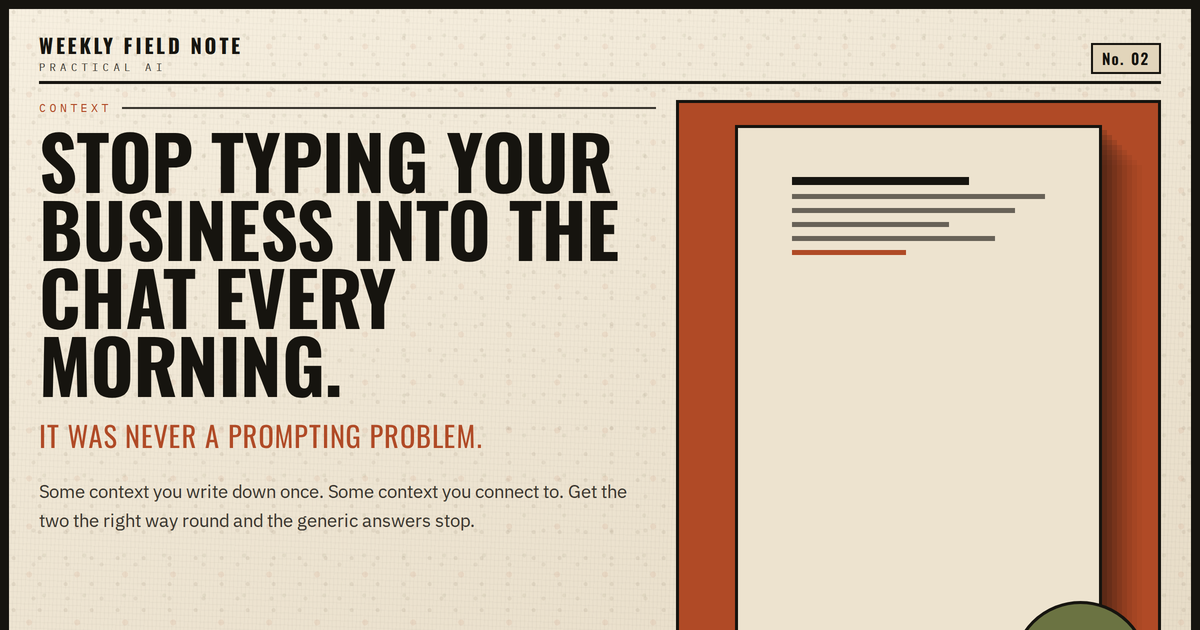
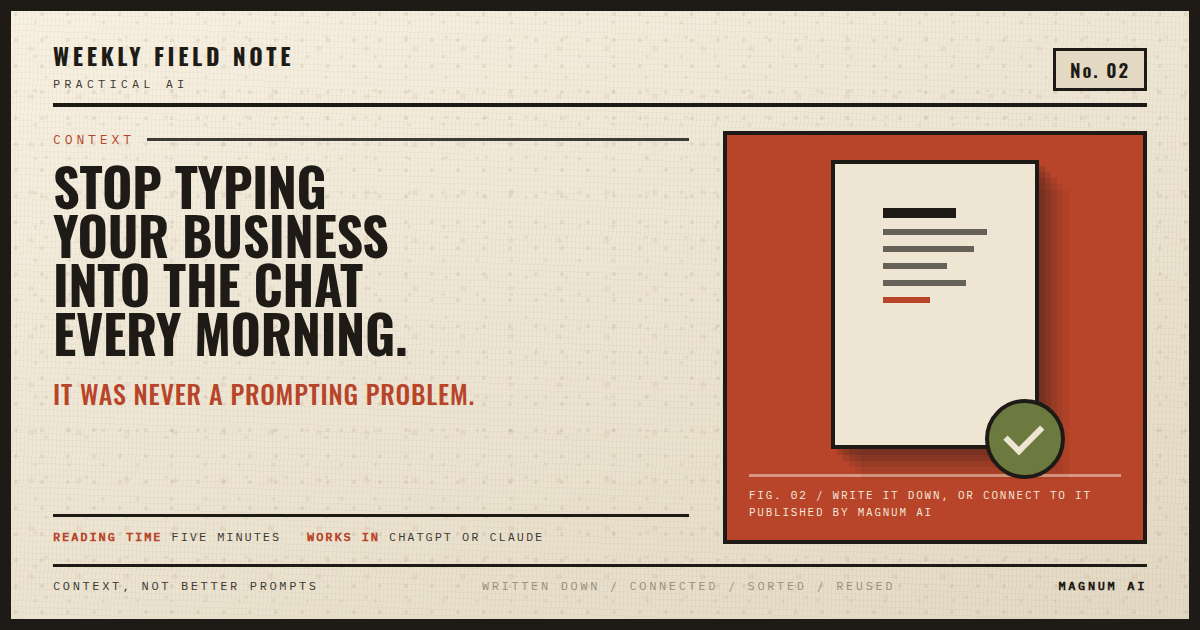
Rebuild the Field Note No. 02 social thumbnail
The published card was rendered through a viewport that scaled the page, so it
shipped zoomed and cut off at the bottom: no slug line, no footer strip, and
the tick clipped. It is the og:image for the issue, so every shared link
previewed with a chopped card.

Re-rendered at a true 1200x630 from a committed source, in the house palette
and matching the anatomy of No. 01. Keeps the thumbnail source alongside the
issue so the card can be regenerated after an edit.

Claude-Session: https://claude.ai/code/session_013LnzfXSUAcsEjMFYhF9Rse

diff --git a/newsletter/field-note-02-thumbnail.html b/newsletter/field-note-02-thumbnail.html
@@ -1,0 +1,134 @@
+<!DOCTYPE html>
+<html lang="en-AU">
+<head>
+<meta charset="utf-8">
+<title>Field Note No. 02 — social thumbnail</title>
+<!--
+  THUMBNAIL SOURCE — Weekly Field Note No. 02, Context
+  ===================================================
+  This is the 1200x630 social card that shows up when a Field Note link is
+  shared (email, LinkedIn, WhatsApp, Slack) and as the cover image on the
+  members area home page.
+
+  To make one for a new issue:
+    1. Copy this file, change the four bits marked EDIT below.
+    2. Render it to a PNG at exactly 1200x630 (any headless browser will do):
+         chrome --headless --screenshot=out.png --window-size=1200,630 file.html
+    3. Save the PNG as assets/thumbnails/field-note-NN-slug.png
+    4. Point the issue's og:image meta tag at it.
+-->
+<link rel="preconnect" href="https://fonts.googleapis.com">
+<link rel="preconnect" href="https://fonts.gstatic.com" crossorigin>
+<link href="https://fonts.googleapis.com/css2?family=Oswald:wght@400;500;600;700&family=IBM+Plex+Mono:wght@400;500;600&family=IBM+Plex+Sans:wght@400;500;600&display=swap" rel="stylesheet">
+<style>
+:root{
+  --paper:#EEE6D3;
+  --paper-deep:#E4DAC4;
+  --ink:#1E1B17;
+  --rust:#B8452A;
+  --tan:#C9A87C;
+  --olive:#6C7A3F;
+  --charcoal:#3A3630;
+  --taupe:#9C8D77;
+}
+*{box-sizing:border-box;margin:0;padding:0}
+body{width:1200px;height:630px;overflow:hidden;background:#4A453D;font-family:'IBM Plex Sans',Arial,sans-serif;color:var(--ink)}
+
+.card{
+  width:1200px;height:630px;
+  background-color:var(--paper);
+  background-image:
+    radial-gradient(circle at 18% 12%, rgba(156,141,119,.16) 0 2px, transparent 2px),
+    radial-gradient(circle at 72% 34%, rgba(156,141,119,.13) 0 2px, transparent 2px),
+    radial-gradient(circle at 42% 78%, rgba(184,69,42,.07) 0 3px, transparent 3px),
+    radial-gradient(circle at 88% 66%, rgba(108,122,63,.08) 0 2px, transparent 2px),
+    repeating-linear-gradient(92deg, rgba(30,27,23,.028) 0 1px, transparent 1px 4px),
+    repeating-linear-gradient(2deg, rgba(30,27,23,.022) 0 1px, transparent 1px 6px),
+    linear-gradient(160deg, rgba(255,250,238,.55), rgba(198,181,152,.28));
+  background-size:26px 26px,34px 34px,48px 48px,40px 40px,auto,auto,auto;
+  border:11px solid var(--ink);
+  padding:34px 42px 26px;
+  display:flex;flex-direction:column;
+}
+
+.masthead{display:flex;align-items:flex-end;justify-content:space-between;border-bottom:4px solid var(--ink);padding-bottom:12px;gap:16px}
+.mh-title{font-family:'Oswald',Impact,sans-serif;font-weight:700;font-size:23px;letter-spacing:.16em;text-transform:uppercase;line-height:1;display:block}
+.mh-sub{font-family:'IBM Plex Mono',monospace;font-size:12px;letter-spacing:.34em;text-transform:uppercase;color:var(--charcoal);display:block;margin-top:8px}
+.mh-issue{font-family:'Oswald',Impact,sans-serif;font-weight:600;font-size:19px;letter-spacing:.1em;border:3px solid var(--ink);padding:4px 14px 5px;background:var(--paper-deep);white-space:nowrap}
+
+.body{flex:1;display:grid;grid-template-columns:1.2fr .8fr;gap:34px;padding-top:24px;min-height:0}
+
+.eyebrow{font-family:'IBM Plex Mono',monospace;font-size:13px;letter-spacing:.3em;text-transform:uppercase;color:var(--rust);display:flex;align-items:center;gap:12px}
+.eyebrow::after{content:"";flex:1;height:3px;background:var(--ink);opacity:.85}
+
+/* EDIT 1 — headline size can be nudged if the headline runs long */
+h1{font-family:'Oswald',Impact,sans-serif;font-weight:700;text-transform:uppercase;line-height:.94;letter-spacing:-.005em;font-size:52px;margin-top:14px}
+.kicker{font-family:'Oswald',Impact,sans-serif;font-size:26px;text-transform:uppercase;letter-spacing:.03em;color:var(--rust);margin-top:16px}
+.slug{margin-top:auto;border-top:3px solid var(--ink);padding-top:12px;display:flex;gap:26px;font-family:'IBM Plex Mono',monospace;font-size:12px;letter-spacing:.16em;text-transform:uppercase;color:var(--charcoal)}
+.slug b{font-weight:600;color:var(--rust)}
+.left{display:flex;flex-direction:column;min-height:0}
+
+.plate{background:var(--rust);border:4px solid var(--ink);padding:20px 22px 18px;display:flex;flex-direction:column;justify-content:space-between;min-height:0;overflow:hidden}
+.doc-wrap{flex:1;display:flex;align-items:center;justify-content:center;padding-bottom:6px}
+.doc{position:relative;width:56%;aspect-ratio:.72;background:var(--paper);border:4px solid var(--ink);padding:12% 13%;
+  box-shadow:6px 6px 0 rgba(30,27,23,.16),12px 12px 0 rgba(30,27,23,.13),18px 18px 0 rgba(30,27,23,.10),24px 24px 0 rgba(30,27,23,.07),30px 30px 0 rgba(30,27,23,.05)}
+.doc i{display:block;height:6px;background:var(--charcoal);opacity:.75;margin-bottom:11px}
+.doc i:nth-child(1){width:70%;height:10px;opacity:1;background:var(--ink)}
+.doc i:nth-child(3){width:88%}
+.doc i:nth-child(4){width:62%}
+.doc i:nth-child(5){width:80%}
+.doc i:nth-child(6){width:45%;background:var(--rust);opacity:1}
+.tick{position:absolute;right:-15%;bottom:-12%;width:40%;aspect-ratio:1;border-radius:50%;background:var(--olive);border:4px solid var(--ink);display:flex;align-items:center;justify-content:center}
+.tick::after{content:"";width:42%;height:22%;border-left:6px solid var(--paper);border-bottom:6px solid var(--paper);transform:rotate(-45deg) translate(6%,-18%)}
+.plate-cap{font-family:'IBM Plex Mono',monospace;font-size:11px;letter-spacing:.16em;text-transform:uppercase;color:#F6ECDC;border-top:3px solid rgba(246,236,220,.5);padding-top:10px;margin-top:14px;line-height:1.6}
+
+.foot{border-top:3px solid var(--ink);margin-top:20px;padding-top:11px;display:flex;justify-content:space-between;align-items:center;font-family:'IBM Plex Mono',monospace;font-size:12px;letter-spacing:.22em;text-transform:uppercase;color:var(--charcoal)}
+.foot .mid{color:var(--taupe)}
+.foot .pg{color:var(--ink);font-weight:600}
+</style>
+</head>
+<body>
+<div class="card">
+
+  <header class="masthead">
+    <div>
+      <span class="mh-title">Weekly Field Note</span>
+      <span class="mh-sub">Practical AI</span>
+    </div>
+    <!-- EDIT 2 — issue number -->
+    <div class="mh-issue">No. 02</div>
+  </header>
+
+  <div class="body">
+    <div class="left">
+      <!-- EDIT 3 — theme, headline, kicker -->
+      <div class="eyebrow">Context</div>
+      <h1>Stop typing<br>your business<br>into the chat<br>every morning.</h1>
+      <div class="kicker">It was never a prompting problem.</div>
+      <div class="slug">
+        <span><b>Reading time</b> five minutes</span>
+        <span><b>Works in</b> ChatGPT or Claude</span>
+      </div>
+    </div>
+
+    <div class="plate">
+      <div class="doc-wrap">
+        <div class="doc">
+          <i></i><i></i><i></i><i></i><i></i><i></i>
+          <div class="tick"></div>
+        </div>
+      </div>
+      <div class="plate-cap">Fig. 02 / Write it down, or connect to it<br>Published by Magnum AI</div>
+    </div>
+  </div>
+
+  <footer class="foot">
+    <span>Context, not better prompts</span>
+    <!-- EDIT 4 — footer strapline -->
+    <span class="mid">Written down / Connected / Sorted / Reused</span>
+    <span class="pg">Magnum AI</span>
+  </footer>
+
+</div>
+</body>
+</html>
